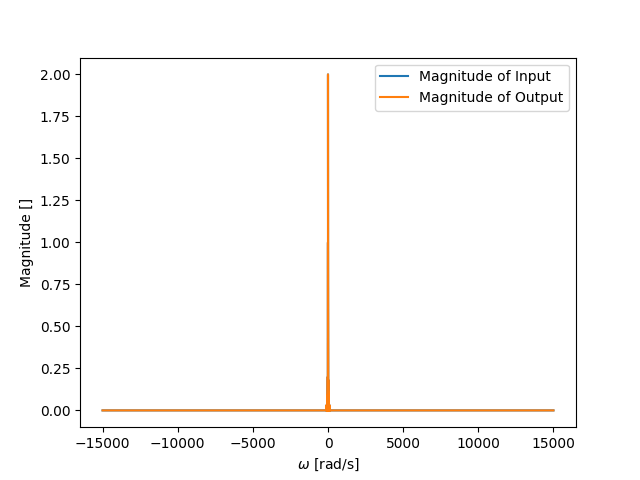
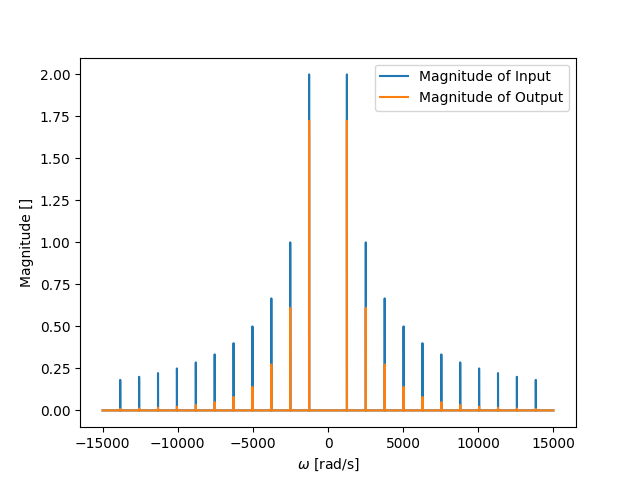
2d

Changed region(s): [[0.1875, 0.1562, 0.8438, 0.875]]

diff --git a/Assignment 2/Assignment2.py b/Assignment 2/Assignment2.py
@@ -69,11 +69,13 @@ def get_nth_f_trans(n, w0, w, dw):
 w_arr = np.arange(-15*10**3, 15*10**3, 1)
 
 res_arr = np.zeros(w_arr.shape)
-for n in range(1, 100):
-    res_arr = res_arr + get_nth_f_trans(n, 2*np.pi/5, w_arr, 1)
+for n in range(1, 10000):
+    res_arr = res_arr + get_nth_f_trans(n, 2000*np.pi/5, w_arr, 1)
 
 
 Y_arr = res_arr*f_arr
+
+ang = np.angle(res_arr) + np.angle(f_arr)
 
 plt.plot(w_arr, np.absolute(res_arr), label='Magnitude of Input')
 plt.plot(w_arr, np.absolute(Y_arr), label="Magnitude of Output")
@@ -88,7 +90,7 @@ plt.clf()
 
 
 plt.plot(w_arr, np.angle(res_arr), label="Phase of Input")
-plt.plot(w_arr, np.angle(Y_arr), label="Phase of Output")
+plt.plot(w_arr, ang, label="Phase of Output")
 
 plt.xlabel("$\omega$ [rad/s]")
 plt.ylabel('Phase [rad]')
@@ -96,4 +98,48 @@ plt.ylabel('Phase [rad]')
 plt.legend()
 
 plt.savefig("2c2")
+plt.clf()
+
+
+def get_nth_f_trans_better(n):
+    bn = -2*(-1)**n/(n*np.pi)
+    "x(t) = bn*sin(n*w0*t)"
+    return -bn*1j*np.pi
+
+def y(t, N):
+    sum = 0
+    for n in range(-N, N+1):
+        if n != 0:                            
+            sum += get_nth_f_trans_better(n)*freq_response(1000*np.pi, n*2000*np.pi/5)*np.exp(1j*n*2000*np.pi/5*t) # NOTERA VÄLDIGT LITET dOMEGA
+    return sum/(2*np.pi)
+
+def x(t, N):
+    sum = 0
+    for n in range(1, N+1):
+        sum += -2*(-1)**n/(n*np.pi)*np.sin(2000*np.pi/5*n*t)
+    return sum
+
+t_arr = np.arange(0, 0.015, 0.00001)
+
+
+y_arr = y(t_arr, 1)
+print(np.sum(np.imag(y_arr)))
+plt.plot(t_arr, np.real(y_arr), label="N=1")
+
+y_arr = y(t_arr, 2)
+print(np.sum(np.imag(y_arr)))
+plt.plot(t_arr, np.real(y_arr), label="N=2")
+
+y_arr = y(t_arr, 10)
+print(np.sum(np.imag(y_arr)))
+plt.plot(t_arr, np.real(y_arr), label="N=10")
+
+y_arr = y(t_arr, 20)
+print(np.sum(np.imag(y_arr)))
+plt.plot(t_arr, np.real(y_arr), "r--", label="N=20")
+
+plt.legend()
+plt.xlabel("t [s]")
+plt.ylabel("y(t) []")
+plt.savefig("2d")
 plt.clf()
